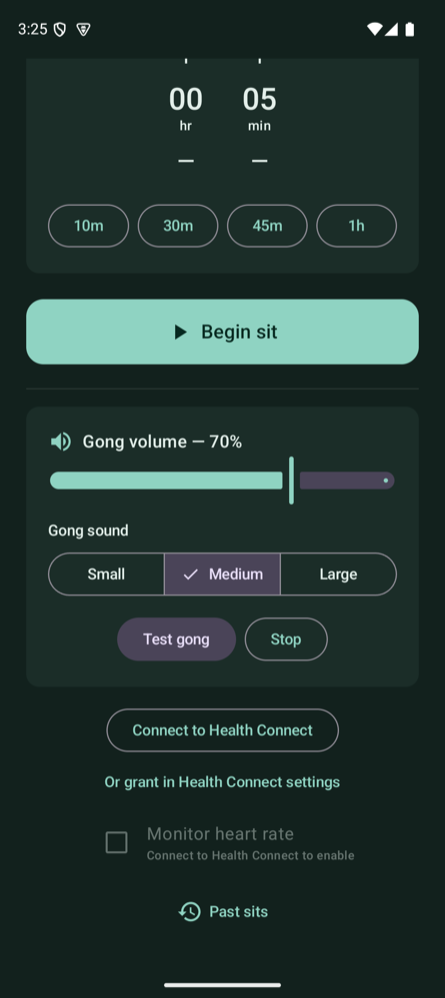
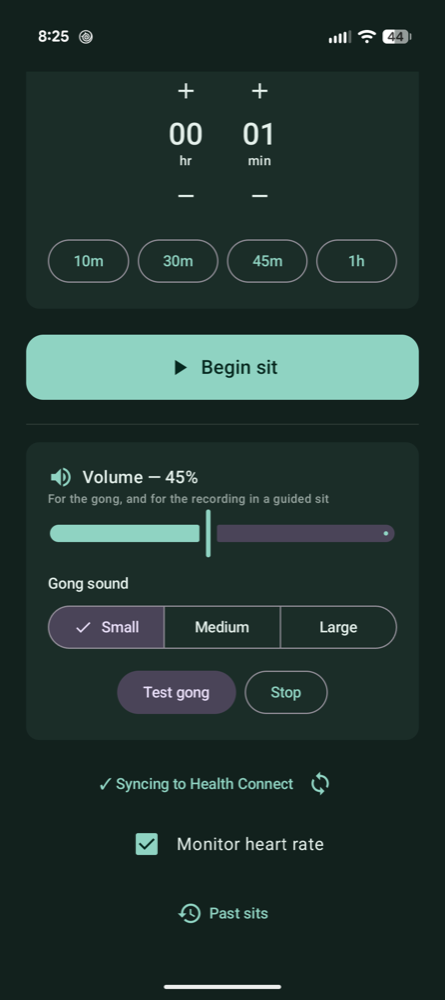
docs: README screenshots for guided sits (v0.6.0)
Retake the setup and volume screenshots, add the Guided list and a guided
sit, and mention guided sits in the platform table.

diff --git a/README.md b/README.md
@@ -7,7 +7,7 @@ you**, and the timer keeps counting **overtime** so you know exactly how much lo
 
 | Platform | Where | What |
 |---|---|---|
-| **Android** | [`android/`](android/) · releases tagged `v*` | The full app: sit timer, practice types, metta, notes, heart rate via Health Connect, multi-device history with date/device filters + an Insights tab (practice/heart/calmness charts, mind–body agreement, calendar heatmap), automatic Drive sync |
+| **Android** | [`android/`](android/) · releases tagged `v*` | The full app: sit timer, guided sits (recordings downloaded on demand, never bundled), practice types, metta, notes, heart rate via Health Connect, multi-device history with date/device filters + an Insights tab (practice/heart/calmness charts, mind–body agreement, calendar heatmap), automatic Drive sync |
 | **macOS** | [`macos/`](macos/) · releases tagged `mac-v*` | Minimal menu-bar companion: breathing orb sit, gong, overtime, saves to the shared Drive folder; `mastishka://sit` URL scheme |
 | **Web** | [`docs/`](docs/) → **[nishparadox.com/mastishka](https://nishparadox.com/mastishka/)** | A transient sit in the browser — nothing saved, just open and sit |
 
@@ -34,8 +34,10 @@ The same protocol defines the `mastishka://sit` URL scheme so companion apps (li
 ## Screenshots (Android)
 
 <p>
-  <img src="docs/screenshots/setup.png" width="200" alt="Setup — मस्तिष्क title, practice & duration" />
-  <img src="docs/screenshots/gong.png" width="200" alt="Gong — volume & segmented sound picker" />
+  <img src="docs/screenshots/setup.png" width="200" alt="Setup — मस्तिष्क title, Silent/Guided switch, practice & duration" />
+  <img src="docs/screenshots/guided.png" width="200" alt="Guided — choose a recording; built-in ones download on first use" />
+  <img src="docs/screenshots/guided-sit.png" width="200" alt="Guided sit — countdown, recording name, pause" />
+  <img src="docs/screenshots/gong.png" width="200" alt="Volume for gong and recording, gong sound picker" />
   <img src="docs/screenshots/sit.png" width="200" alt="Sit — countdown" />
   <img src="docs/screenshots/metta.png" width="200" alt="Metta Bhavana" />
   <img src="docs/screenshots/history.png" width="200" alt="History with multi-select delete" />
